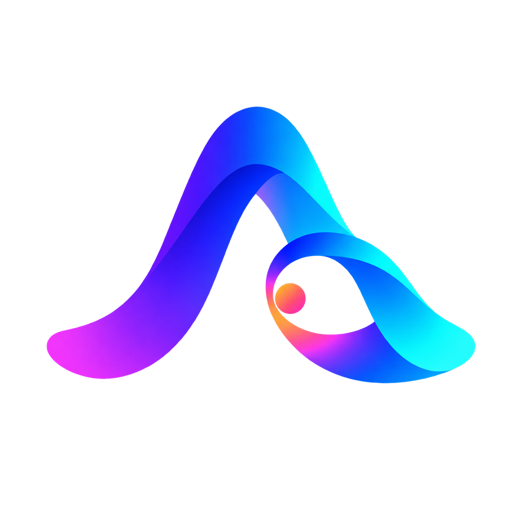
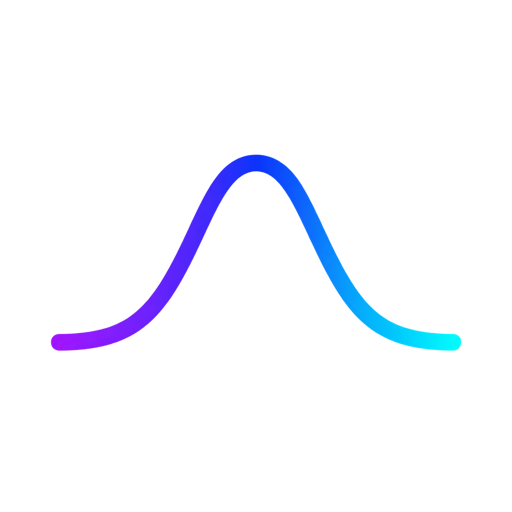
Simplify Call-in branding and bell-curve mark

Changed region(s): [[0.0938, 0.1875, 0.9375, 0.75]]

diff --git a/public/index.html b/public/index.html
@@ -5,19 +5,19 @@
     <meta name="viewport" content="width=device-width,initial-scale=1" />
     <meta name="theme-color" content="#f7f7fb" />
     <link rel="icon" type="image/png" href="/brand/call-in-favicon.png" />
-    <meta name="description" content="Call-in 簡報叩應，讓線上分享即時收到觀眾的理解、提問與反應。上傳 PDF 或貼上簡報網址，一分鐘開始。" />
+    <meta name="description" content="Call-in 簡單叩應，讓線上分享即時收到觀眾的理解、提問與反應。上傳 PDF 或貼上簡報網址，一分鐘開始。" />
     <link rel="canonical" href="https://call-in.mashbean.net/" />
     <link rel="alternate" hreflang="zh-Hant-TW" href="https://call-in.mashbean.net/" />
     <link rel="alternate" hreflang="en" href="https://call-in.mashbean.net/en/" />
-    <title>Call-in 簡報叩應｜讓你的分享，可以即時叩應</title>
+    <title>Call-in 簡單叩應｜讓你的分享，可以即時叩應</title>
     <link rel="stylesheet" href="/landing/landing.css" />
   </head>
   <body>
     <header class="site-header">
-      <a class="brand" href="/" aria-label="Call-in 簡報叩應首頁">
+      <a class="brand" href="/" aria-label="Call-in 簡單叩應首頁">
         <img class="brand-mark-light" src="/brand/call-in-mark-light.png" alt="" />
         <img class="brand-mark-dark" src="/brand/call-in-mark-dark.png" alt="" />
-        <span class="brand-copy"><strong>CALL-IN</strong><span>簡報叩應</span></span>
+        <span class="brand-copy"><strong>CALL-IN</strong><span>簡單叩應</span></span>
       </a>
       <nav class="header-actions" aria-label="網站工具">
         <a class="language-link" href="/en/" lang="en" hreflang="en">EN</a>
@@ -83,7 +83,7 @@
       </section>
     </main>
 
-    <footer><div><div class="footer-brand">CALL-IN · 簡報叩應</div><p>Call-in for your slides. 讓你的分享，可以即時叩應。</p></div><div class="footer-links"><a href="/new/">建立活動</a><a href="https://github.com/mashbean/call-in">GitHub</a><a href="/en/" lang="en">English</a></div></footer>
+    <footer><div><div class="footer-brand">CALL-IN · 簡單叩應</div><p>Call-in for your slides. 讓你的分享，可以即時叩應。</p></div><div class="footer-links"><a href="/new/">建立活動</a><a href="https://github.com/mashbean/call-in">GitHub</a><a href="/en/" lang="en">English</a></div></footer>
     <script type="module" src="/landing/landing.js"></script>
   </body>
 </html>

diff --git a/public/new/index.html b/public/new/index.html
@@ -5,13 +5,13 @@
     <meta name="viewport" content="width=device-width,initial-scale=1" />
     <meta name="theme-color" content="#070d1c" />
     <link rel="icon" type="image/png" href="/brand/call-in-favicon.png" />
-    <meta name="description" content="上傳 PDF 或貼上簡報網址，一分鐘建立 Call-in 簡報叩應活動。" />
-    <title>建立 Call-in 簡報叩應</title>
+    <meta name="description" content="上傳 PDF 或貼上簡報網址，一分鐘建立 Call-in 簡單叩應活動。" />
+    <title>建立 Call-in 簡單叩應</title>
     <link rel="stylesheet" href="/new/new.css" />
   </head>
   <body>
     <header class="create-header">
-      <a class="brand" href="/"><img src="/brand/call-in-mark-dark.png" alt="" /><span><em>CALL-IN</em><b>簡報叩應</b></span></a>
+      <a class="brand" href="/"><img src="/brand/call-in-mark-dark.png" alt="" /><span><em>CALL-IN</em><b>簡單叩應</b></span></a>
       <div class="header-tools"><a href="/en/new/" lang="en">EN</a><span class="pilot-badge">公開測試</span></div>
     </header>
 
@@ -63,7 +63,7 @@
 
       <section class="how-it-works"><div><span>01</span><b>放入簡報</b><p>上傳 PDF 或貼網址。</p></div><div><span>02</span><b>建立叩應</b><p>系統自動準備所有權限。</p></div><div><span>03</span><b>顯示 QR Code</b><p>觀眾用手機直接加入。</p></div></section>
     </main>
-    <footer>Call-in 簡報叩應公開測試版 · 請勿輸入敏感或機密資料</footer>
+    <footer>Call-in 簡單叩應公開測試版 · 請勿輸入敏感或機密資料</footer>
     <script type="module" src="/new/new.js"></script>
   </body>
 </html>

diff --git a/test/worker.spec.ts b/test/worker.spec.ts
@@ -91,7 +91,7 @@ describe("Call-in Worker", () => {
     const audiencePage = await SELF.fetch(created.audienceUrl);
     const presenterPage = await SELF.fetch(created.presenterUrl);
     expect(audiencePage.status).toBe(200);
-    expect(await audiencePage.text()).toContain("Call-in 簡報叩應");
+    expect(await audiencePage.text()).toContain("Call-in 簡單叩應");
     expect(presenterPage.status).toBe(200);
     expect(await presenterPage.text()).toContain("Call-in 講者頁");
 

diff --git a/public/audience/index.html b/public/audience/index.html
@@ -5,7 +5,7 @@
     <meta name="viewport" content="width=device-width,initial-scale=1" />
     <meta name="theme-color" content="#081225" />
     <link rel="icon" type="image/png" href="/brand/call-in-favicon.png" />
-    <title>Call-in 簡報叩應</title>
+    <title>Call-in 簡單叩應</title>
     <link rel="stylesheet" href="/style.css" />
   </head>
   <body>

diff --git a/docs/brand.md b/docs/brand.md
@@ -3,7 +3,7 @@
 ## Name and promise
 
 - Product: **Call-in**
-- Chinese: **簡報叩應**
+- Chinese: **簡單叩應**
 - English line: **Call-in for your slides**
 - Chinese line: **讓你的分享，可以即時叩應**
 - Canonical URL: `https://call-in.mashbean.net`
@@ -12,14 +12,14 @@ Use `Call-in` in prose and `CALL-IN` for the compact wordmark. Do not use Live D
 
 ## Mark
 
-The mark uses an abstract bell curve that folds into a response loop. The large peak represents the room's aggregate signal; the coral node represents one person's call-in joining the shared shape.
+The mark is one abstract Gaussian bell curve. Its single peak represents the room's aggregate signal without adding a literal character, eye, node, loop, or interface metaphor.
 
-- `public/brand/call-in-mark-light.png`: deeper gradient for light surfaces.
-- `public/brand/call-in-mark-dark.png`: brighter gradient for dark surfaces.
+- `public/brand/call-in-mark-light.png`: shared violet-to-cyan curve for light surfaces.
+- `public/brand/call-in-mark-dark.png`: shared violet-to-cyan curve for dark surfaces.
 - `public/brand/call-in-favicon.png`: compact dark-surface mark.
 
-Keep clear space around the mark and do not add a speech bubble, presentation frame, microphone, chart axes, or literal bell.
+Keep clear space around the mark and do not add dots, nodes, loops, eyes, speech bubbles, presentation frames, microphones, chart axes, or a literal bell.
 
 ## Image-generation direction
 
-The source direction was: a premium, highly abstract bell-curve mark made from one continuous flowing curve, subtly folding into a call-and-response loop; electric violet through indigo to cyan, with one small coral response node; geometric, minimal, crisp at 24px, transparent background, no text, mockup, shadow, 3D treatment, literal bell, speech bubble, presentation screen, microphone, chart, or axes.
+The source direction was: an ultra-minimal, symmetric Gaussian bell curve made from exactly one continuous thick stroke with rounded ends; electric violet through indigo to cyan; transparent background; crisp at 16–24px; no dots, circles, nodes, loops, eyes, text, baseline, axes, chart labels, mockup, shadow, glow, texture, or 3D treatment.

diff --git a/README.md b/README.md
@@ -1,4 +1,4 @@
-# Call-in · 簡報叩應
+# Call-in · 簡單叩應
 
 <picture>
   <source media="(prefers-color-scheme: dark)" srcset="./public/brand/call-in-mark-dark.png">
